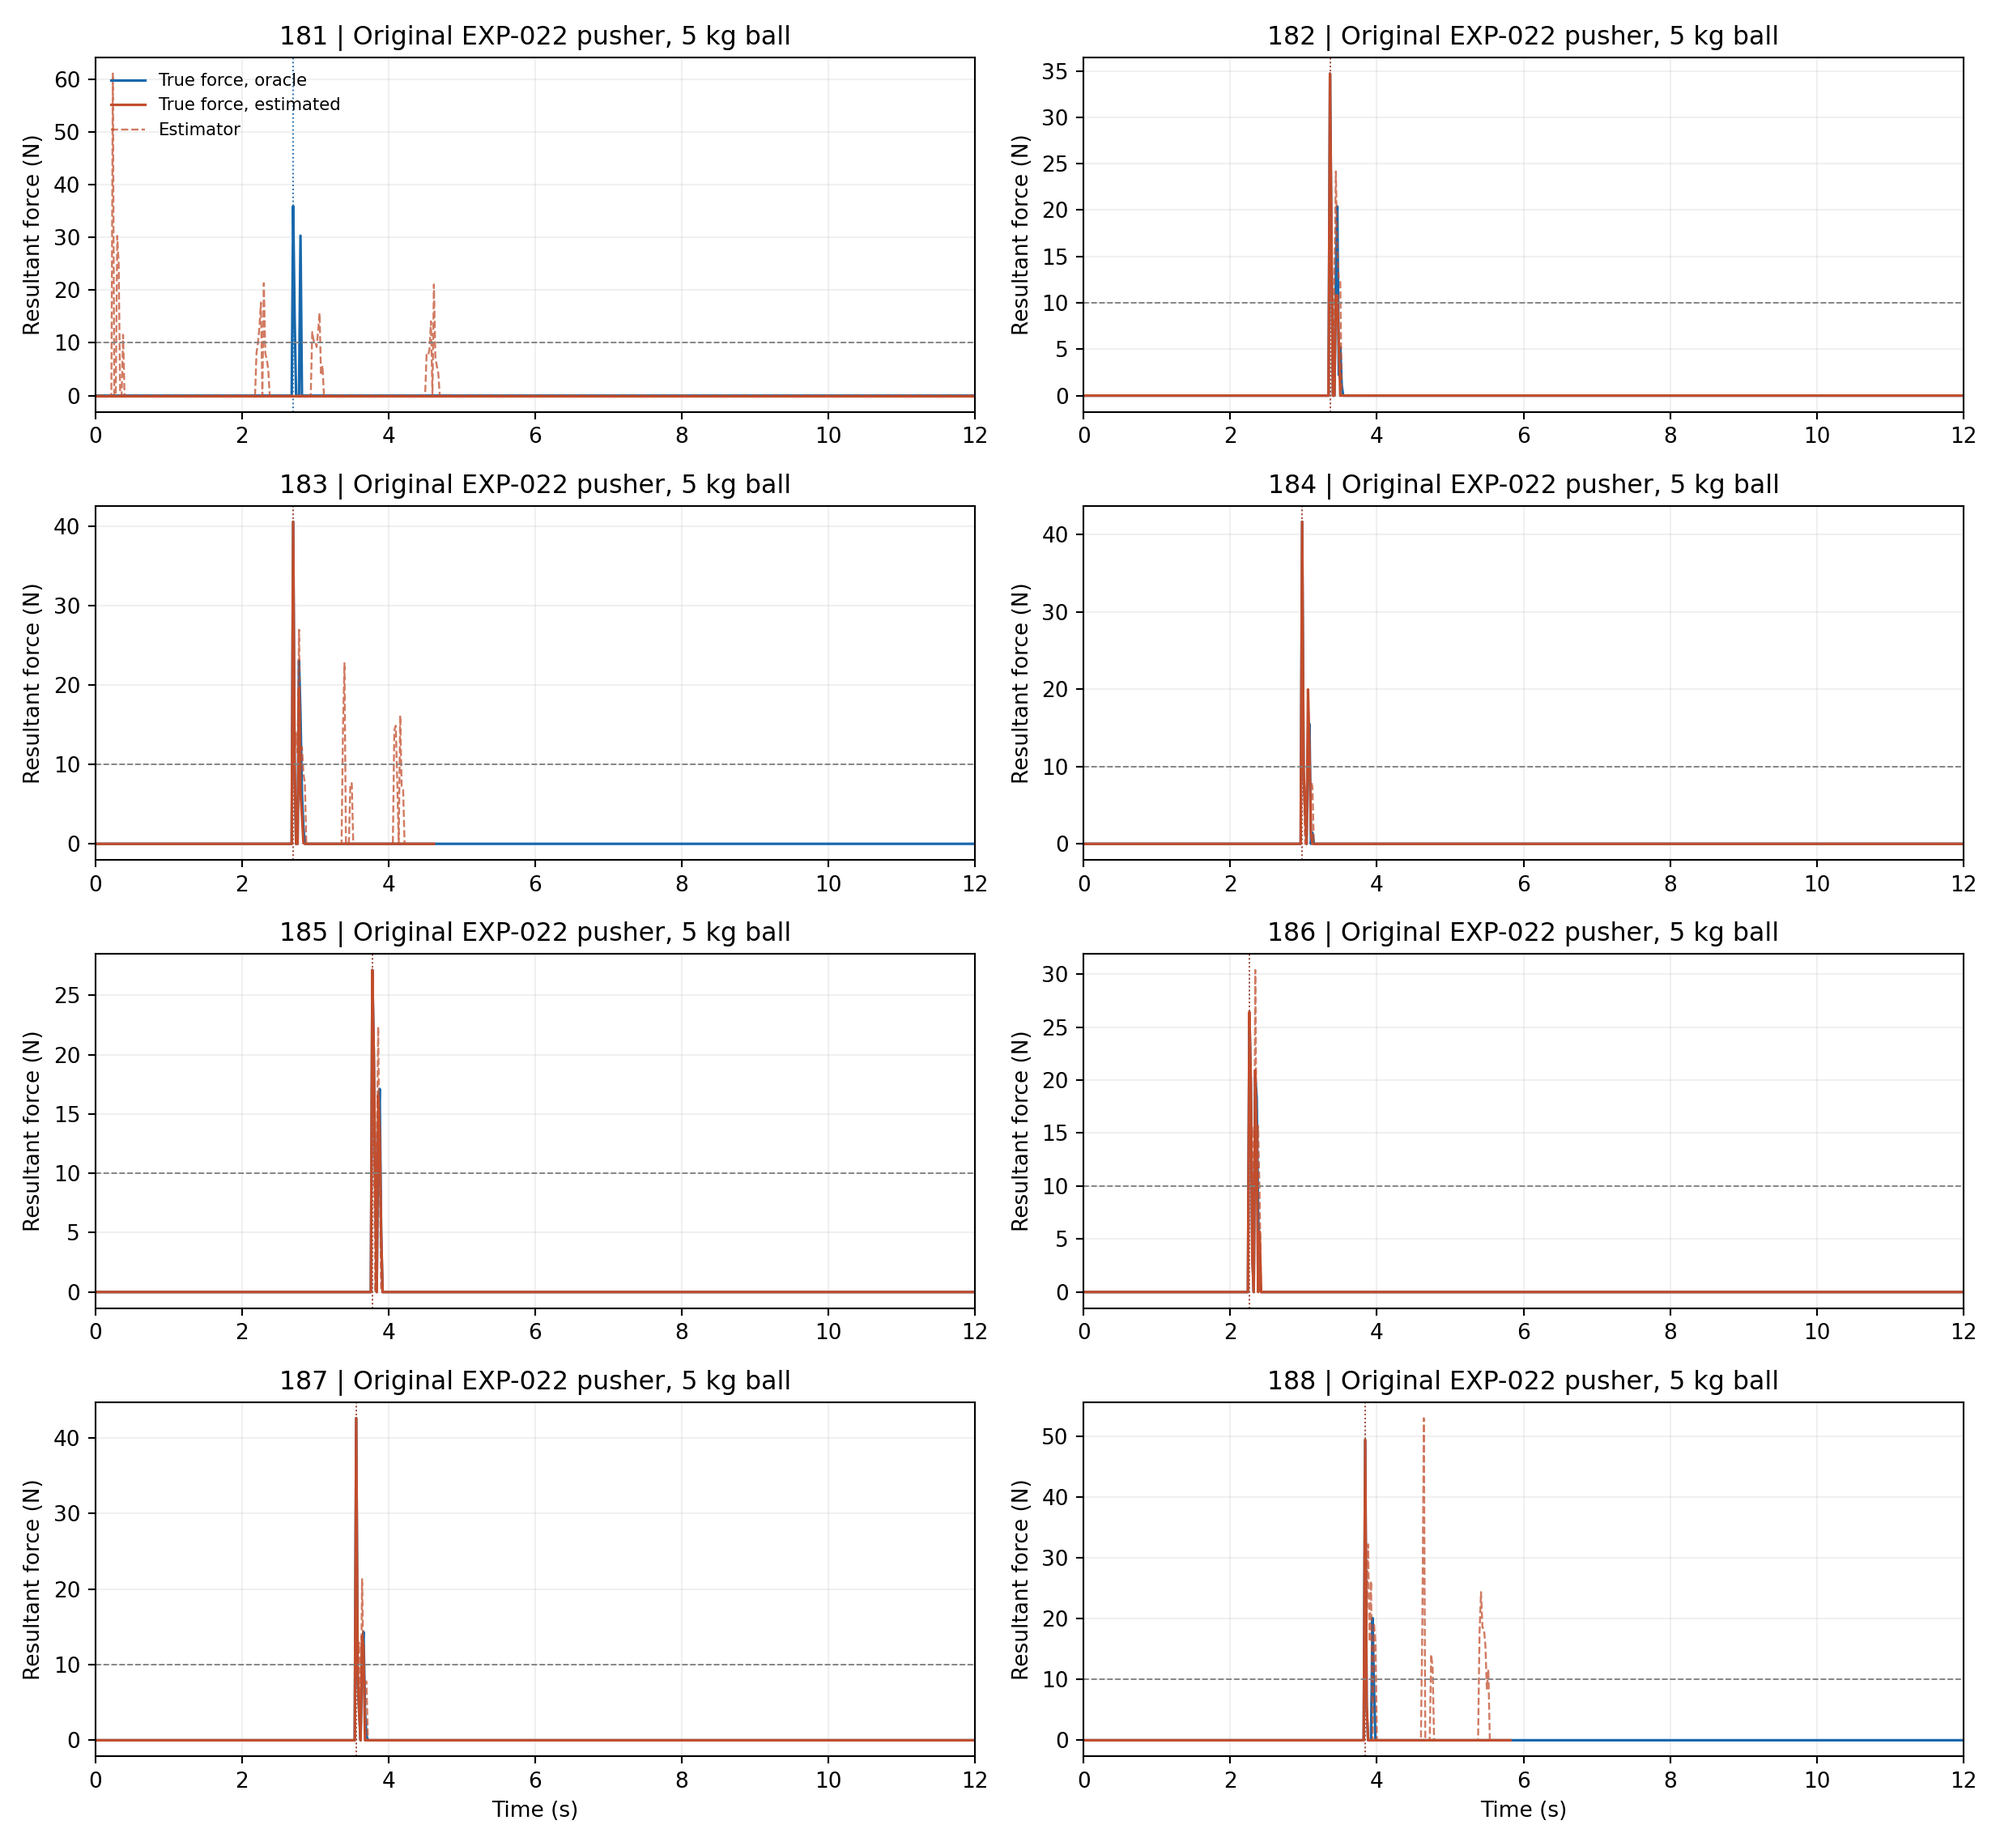
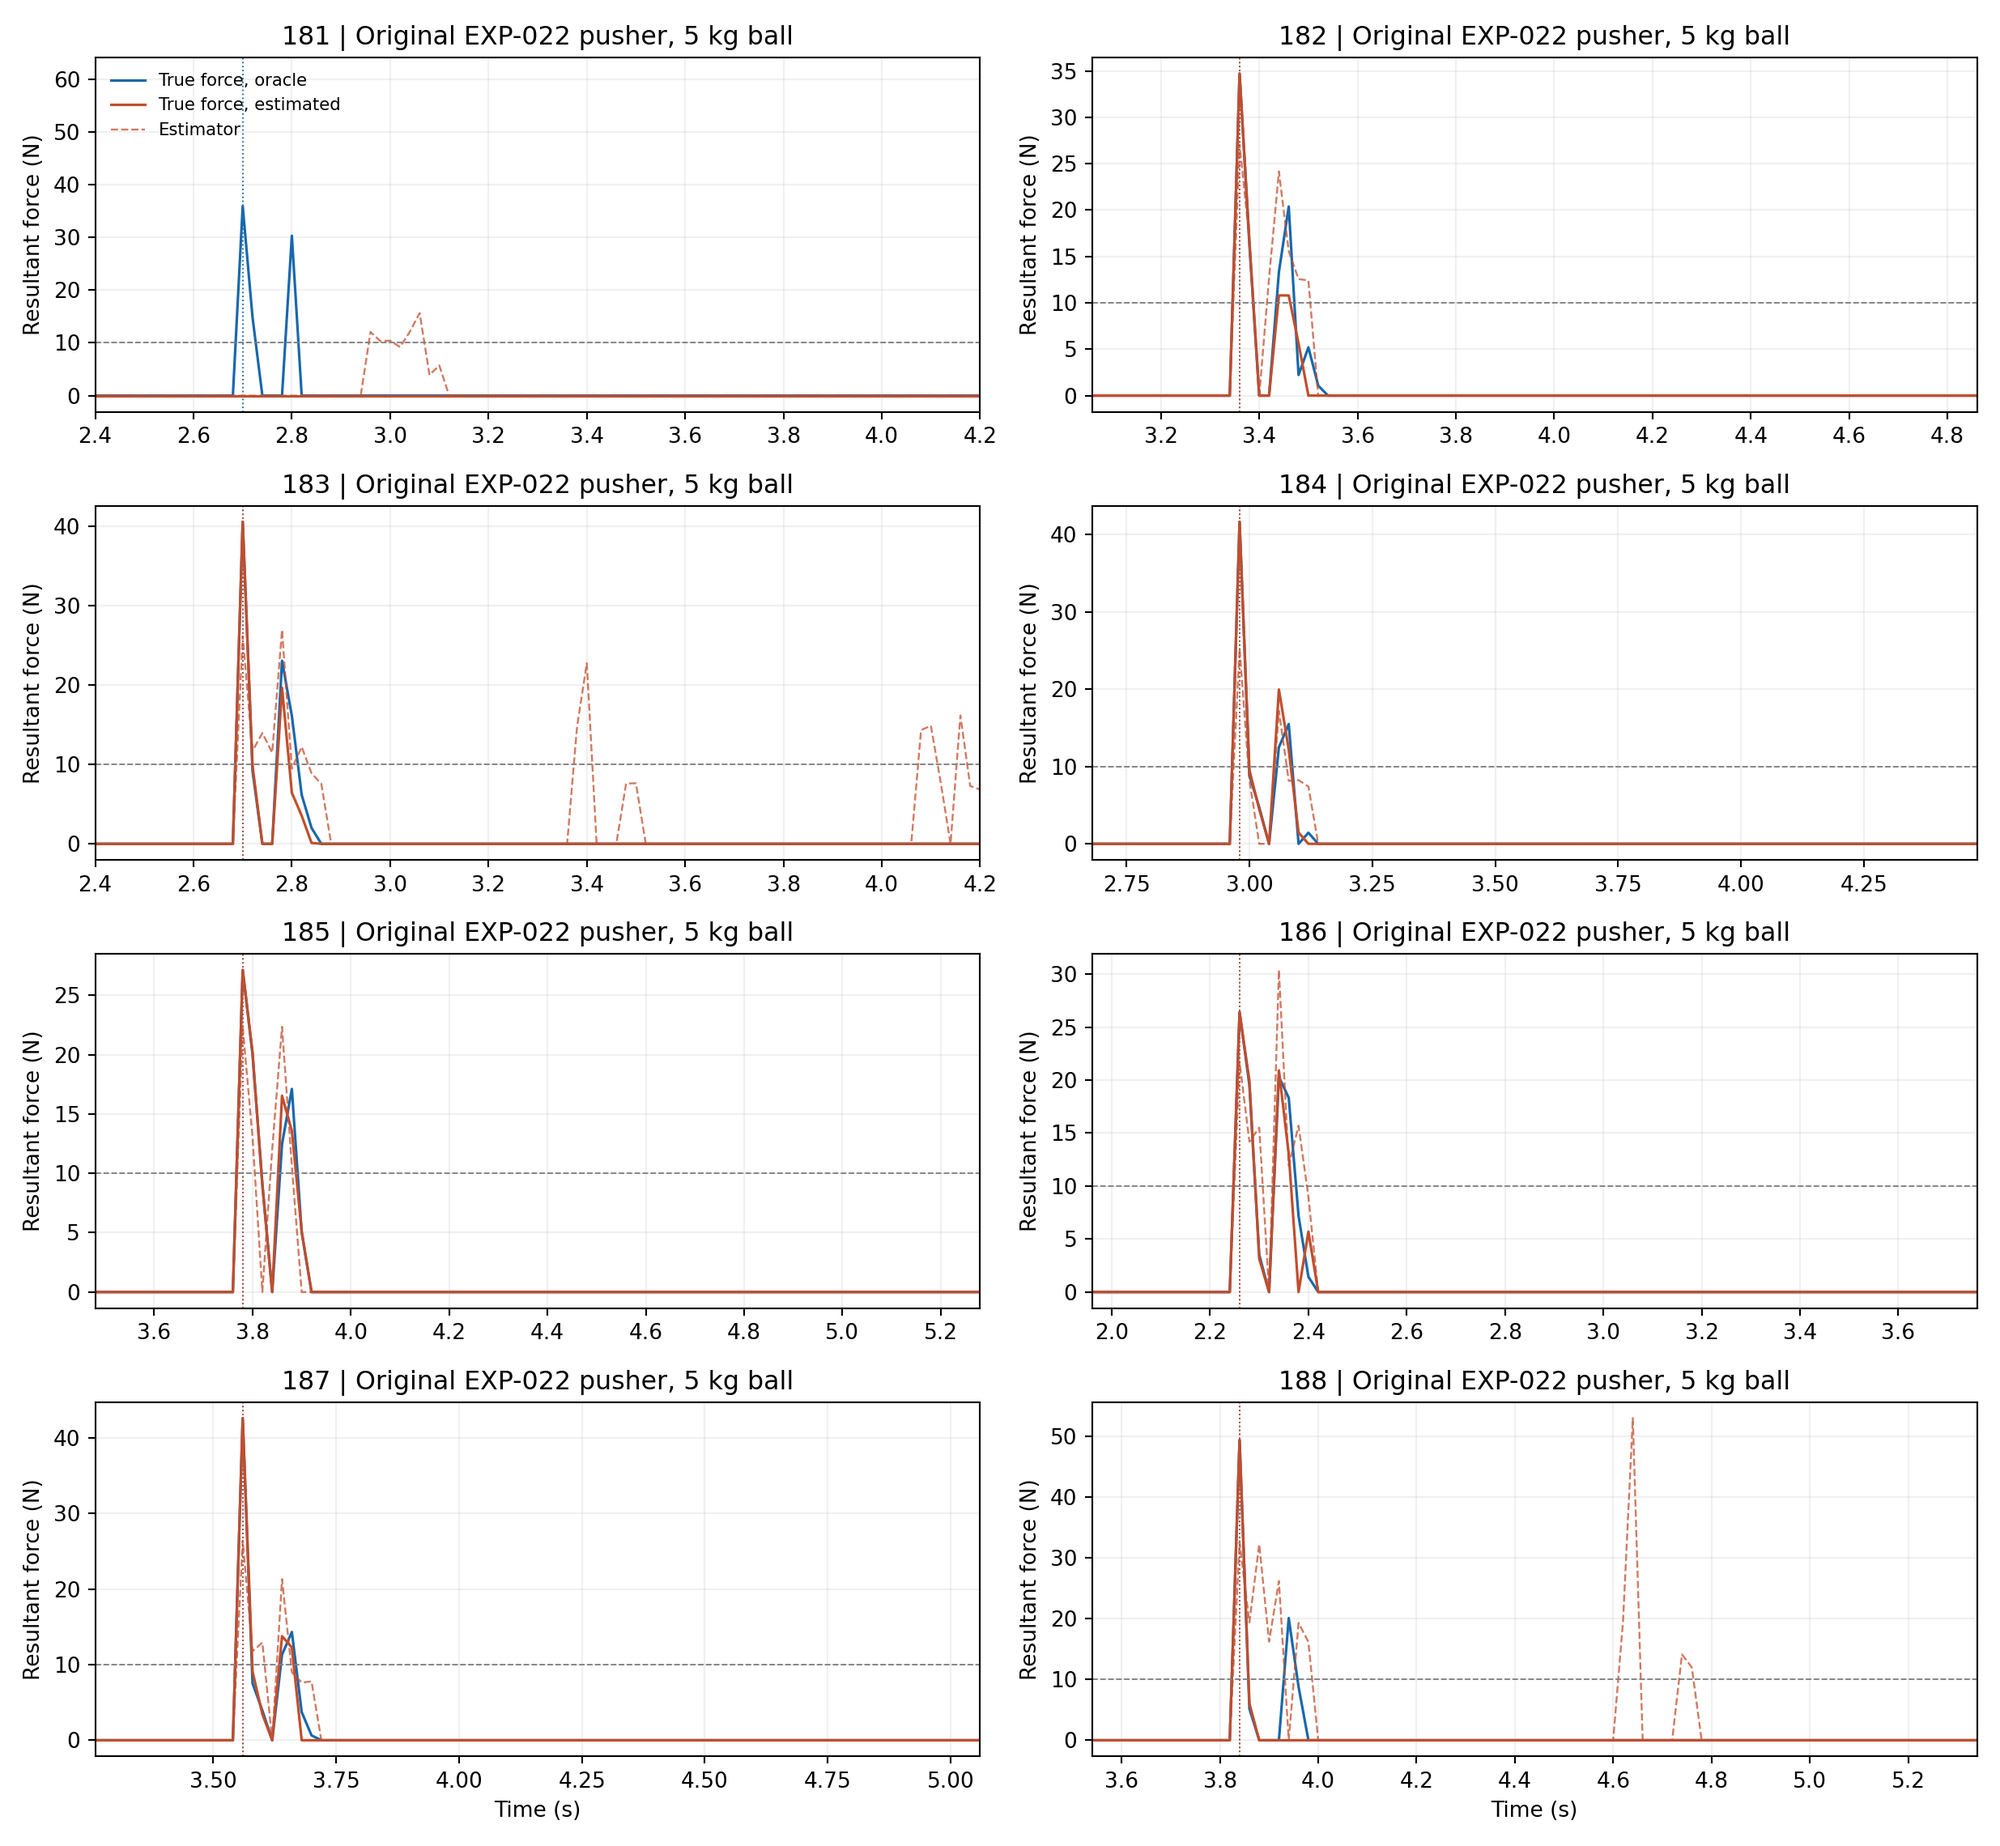
Zoom paired force curves around actual contact

diff --git a/scripts/analyze_exp022_closed_loop.py b/scripts/analyze_exp022_closed_loop.py
@@ -230,9 +230,12 @@ def main(root: Path = Path("logs/reproduction/exp022_closed_loop_v1")) -> None:
         f"{pair['oracle']['audit']['sphere_mass_kg']:.0f} kg ball"
       )
     ax.set_ylabel("Resultant force (N)")
-    ax.set_xlim(
-      0, max(len(pair[mode]["force"]) for mode in ("oracle", "estimated")) * 0.02
-    )
+    end_time = max(len(pair[mode]["force"]) for mode in ("oracle", "estimated")) * 0.02
+    if original_pusher and pair["oracle"]["first_contact"] is not None:
+      contact_time = (pair["oracle"]["first_contact"] + 1) * 0.02
+      ax.set_xlim(max(0, contact_time - 0.3), min(end_time, contact_time + 1.5))
+    else:
+      ax.set_xlim(0, end_time)
     ax.grid(alpha=0.18)
   for ax in axes[-1]:
     ax.set_xlabel("Time (s)")

diff --git a/force/exp022_chest_v1/evaluation/closed_loop_v1/README.md b/force/exp022_chest_v1/evaluation/closed_loop_v1/README.md
@@ -15,7 +15,7 @@
 
 有接触的 7 对回合，首次接触发生在同一控制步；接触前最大单关节动作差不超过 0.00066。181 号是例外：物理接触前第 12 步估计出 61.08 N，真值为 0 N，接触概率 0.888。估计输入组的 Actor 接触开关在真实接触前累计打开 51 帧，动作随之改变；该组最终没有碰到球头，`event_success=0`。真值组在第 135 步发生接触并完成事件。估计组另有 183、188 号在事件成功后触发 `workspace` 终止。这里没有把 `workspace` 终止称为摔倒。
 
-[8 组真实力与估计力曲线](original/paired_force_traces.png)；[181 号误报、Actor 开关和动作差曲线](original/seed181_precontact_feedback.png)；[181 号并排视频](original/seed181_oracle_left_estimated_right.mp4)，左侧真值输入、右侧估计输入。逐回合指标见 [`per_episode.csv`](original/per_episode.csv)，配对差值见 [`per_pair.csv`](original/per_pair.csv)，条件与汇总见 [`design.json`](original/design.json)、[`summary.json`](original/summary.json)。16 回合共 8,922 个推理帧，用保存的本体输入重放估计器后，三维力各分量最大差为 0 N；估计组 Actor 的 32 维接触历史重放最大差为 2.71×10⁻⁷，真值组 Actor 接触历史与原观测逐项相同，见 [`streaming_replay_audit.json`](original/streaming_replay_audit.json)。录屏与无录屏的 181 号回合接触/终止结论相同。
+[8 组真实力与估计力曲线](original/paired_force_traces.png)以各自真值组首次接触为中心放大时间轴；[181 号误报、Actor 开关和动作差曲线](original/seed181_precontact_feedback.png)展示更早的接触前阶段；[181 号并排视频](original/seed181_oracle_left_estimated_right.mp4)左侧真值输入、右侧估计输入。逐回合指标见 [`per_episode.csv`](original/per_episode.csv)，配对差值见 [`per_pair.csv`](original/per_pair.csv)，条件与汇总见 [`design.json`](original/design.json)、[`summary.json`](original/summary.json)。16 回合共 8,922 个推理帧，用保存的本体输入重放估计器后，三维力各分量最大差为 0 N；估计组 Actor 的 32 维接触历史重放最大差为 2.71×10⁻⁷，真值组 Actor 接触历史与原观测逐项相同，见 [`streaming_replay_audit.json`](original/streaming_replay_audit.json)。录屏与无录屏的 181 号回合接触/终止结论相同。
 
 `event_success` 是原任务的事件判定，不能替代持续受力卸力测试。185 号虽然有 8.24 s 几何接触，≥10 N 受力只持续了 0.08 s；其他回合也只有短促有效加载。因此这 8 对回合验证了闭环接口并暴露误报风险，不能证明估计输入下的持续卸力能力。
 
